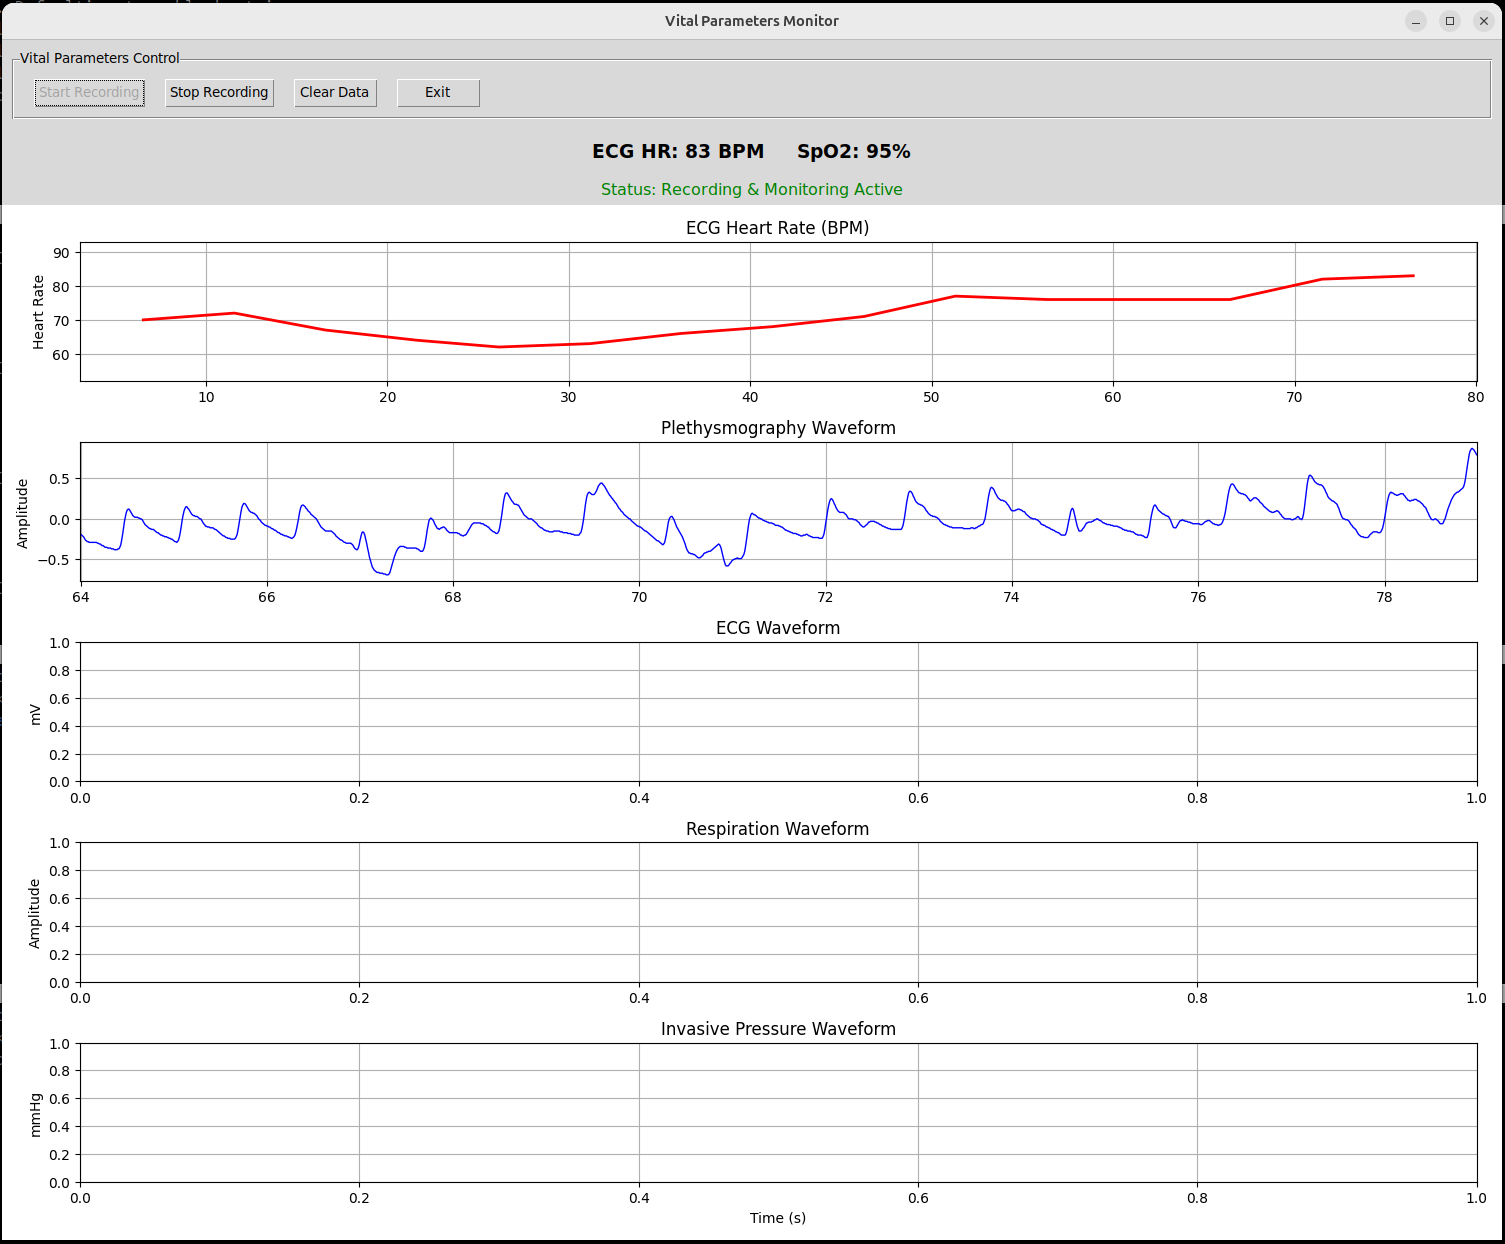
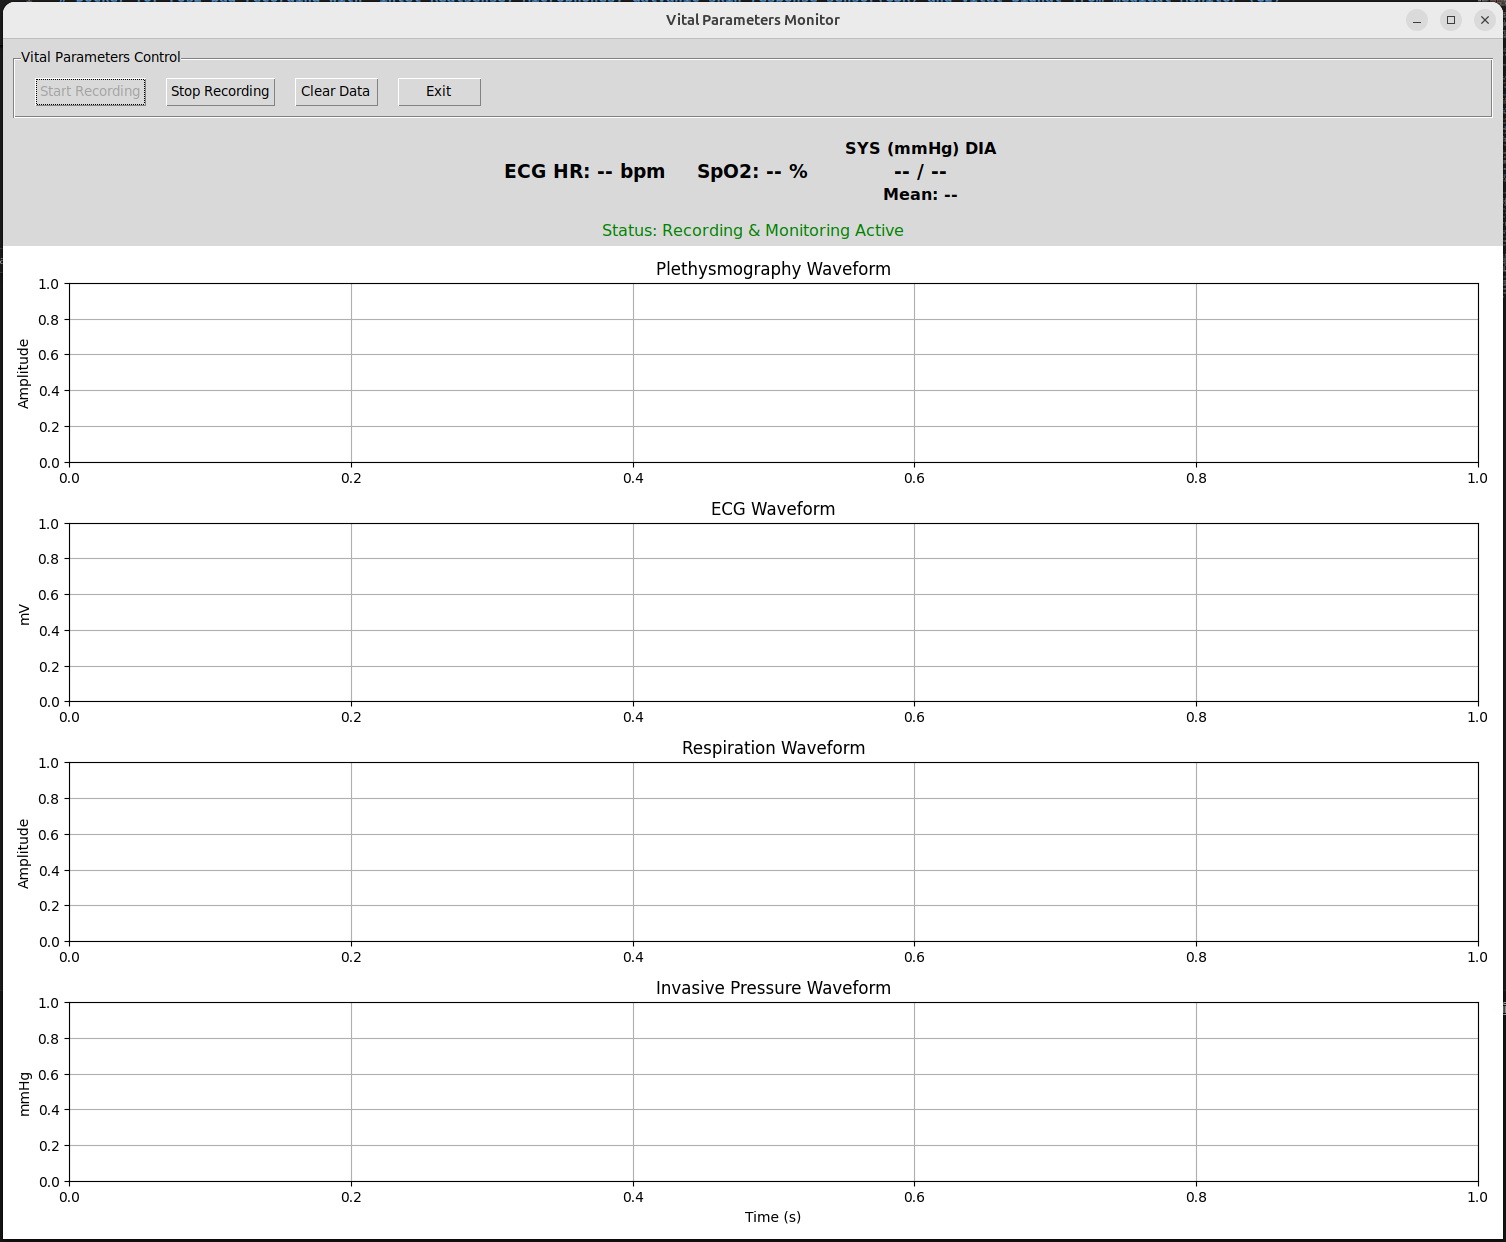
Update rosbag recorder, ReadMe

diff --git a/ros2_ws/src/user_interface/user_interface/rosbag_recorder.py b/ros2_ws/src/user_interface/user_interface/rosbag_recorder.py
@@ -13,6 +13,17 @@ class RosbagRecorder(Node):
     def __init__(self):
         super().__init__('rosbag_recorder')
         self.process = None
+        self.topic_list = [
+            '/camera/camera/color/image_raw',
+            '/camera/camera/depth/image_rect_raw',
+            "/camera/camera/color/camera_info",
+            "/tf",
+            "/tf_static",
+            "/audio",
+            "/gsr_data",
+            "/vital_waveform_data",
+            "/vital_numeric_data",
+        ]
             
     def start_recording(self):
             current_time = time.localtime()
@@ -35,8 +46,11 @@ class RosbagRecorder(Node):
             bag_path = os.path.join(base_dir, time_for_path)
             # === CHANGED SECTION END ===
 
-            command = ["ros2", "bag", "record", "-a", "-o", bag_path]
+            command = ["ros2", "bag", "record", "-o", bag_path]
+            for topic in self.topic_list:
+                command.append(topic)
             self.process = subprocess.Popen(command)
+
             self.get_logger().info(f"Started rosbag recording at {bag_path}")
 
     def stop_recording(self):

diff --git a/ReadMe.md b/ReadMe.md
@@ -1,6 +1,9 @@
 # Docker for ros2 bag recording with vital parameter monitor
 
 ## 1. Requirements
+- GE medical Monitor Bx50 or Datex S/5 or Dash (tested with GE b450)
+- 2 ATEN UC232A-USB adapters connected with Null Modem F/F cable. 
+- VitalSignsCapture (appended in this repository)
 - Docker
 - Docker Compose
 
@@ -39,7 +42,7 @@ ros2 run user_interface ui_home
 ![The GUI home window](docs/ui_window_all.png)
 
 ### Recording vital signals from Monitor GE Carescape b450
-VSCapture is added in this respository. If you just want to run VSCapture with your own configuration arguments, run:
+This package uses VSCapture to record data from medical monitor. To connect to the medical monitor, read the hardware connection guide by [vital recorder](https://vitaldb.net/docs/). To get an overview of the available sensors for vital signals on GE Bx50. Read this [catalog](https://www.gehealthcare.de/-/media/global/dach/files/lcs/mini-catalogues-lcs_b450_b650_b850_de_jb63920xeb.pdf?rev=-1). If you just want to run VSCapture with your own configuration arguments, run:
 ```shell
 run_vscapture.sh \
   --devices 1 \
@@ -48,7 +51,7 @@ run_vscapture.sh \
   --device1arg "-port /dev/ttyUSB0 -interval 1 -export 4 -waveset 2"
 ```
 
-But it is more recommended to run VSCapture in GUI. Also you can see the plotting of the vital parameters in realtime:
+When VSCapture running, it will save all vital signal in .json and .csv files. There are 2 kinds of vital signal. If a vital parameter is shown as label in monitor, it will be recognized as numeric data and all numeric data are saved in one file. If a vital parameter can be plotted as live diagram in monitor, it is recognized as waveform and each waveform data is saved in its own .csv file. Then the ros2 node `/vital_param_plotter`will read latest data from these files and plot them in GUI. So it is more recommended to run VSCapture in GUI. Also you can see the plotting of the vital parameters in realtime:
 ```shell
 ros2 run vital_recording ui_vital
 ```
